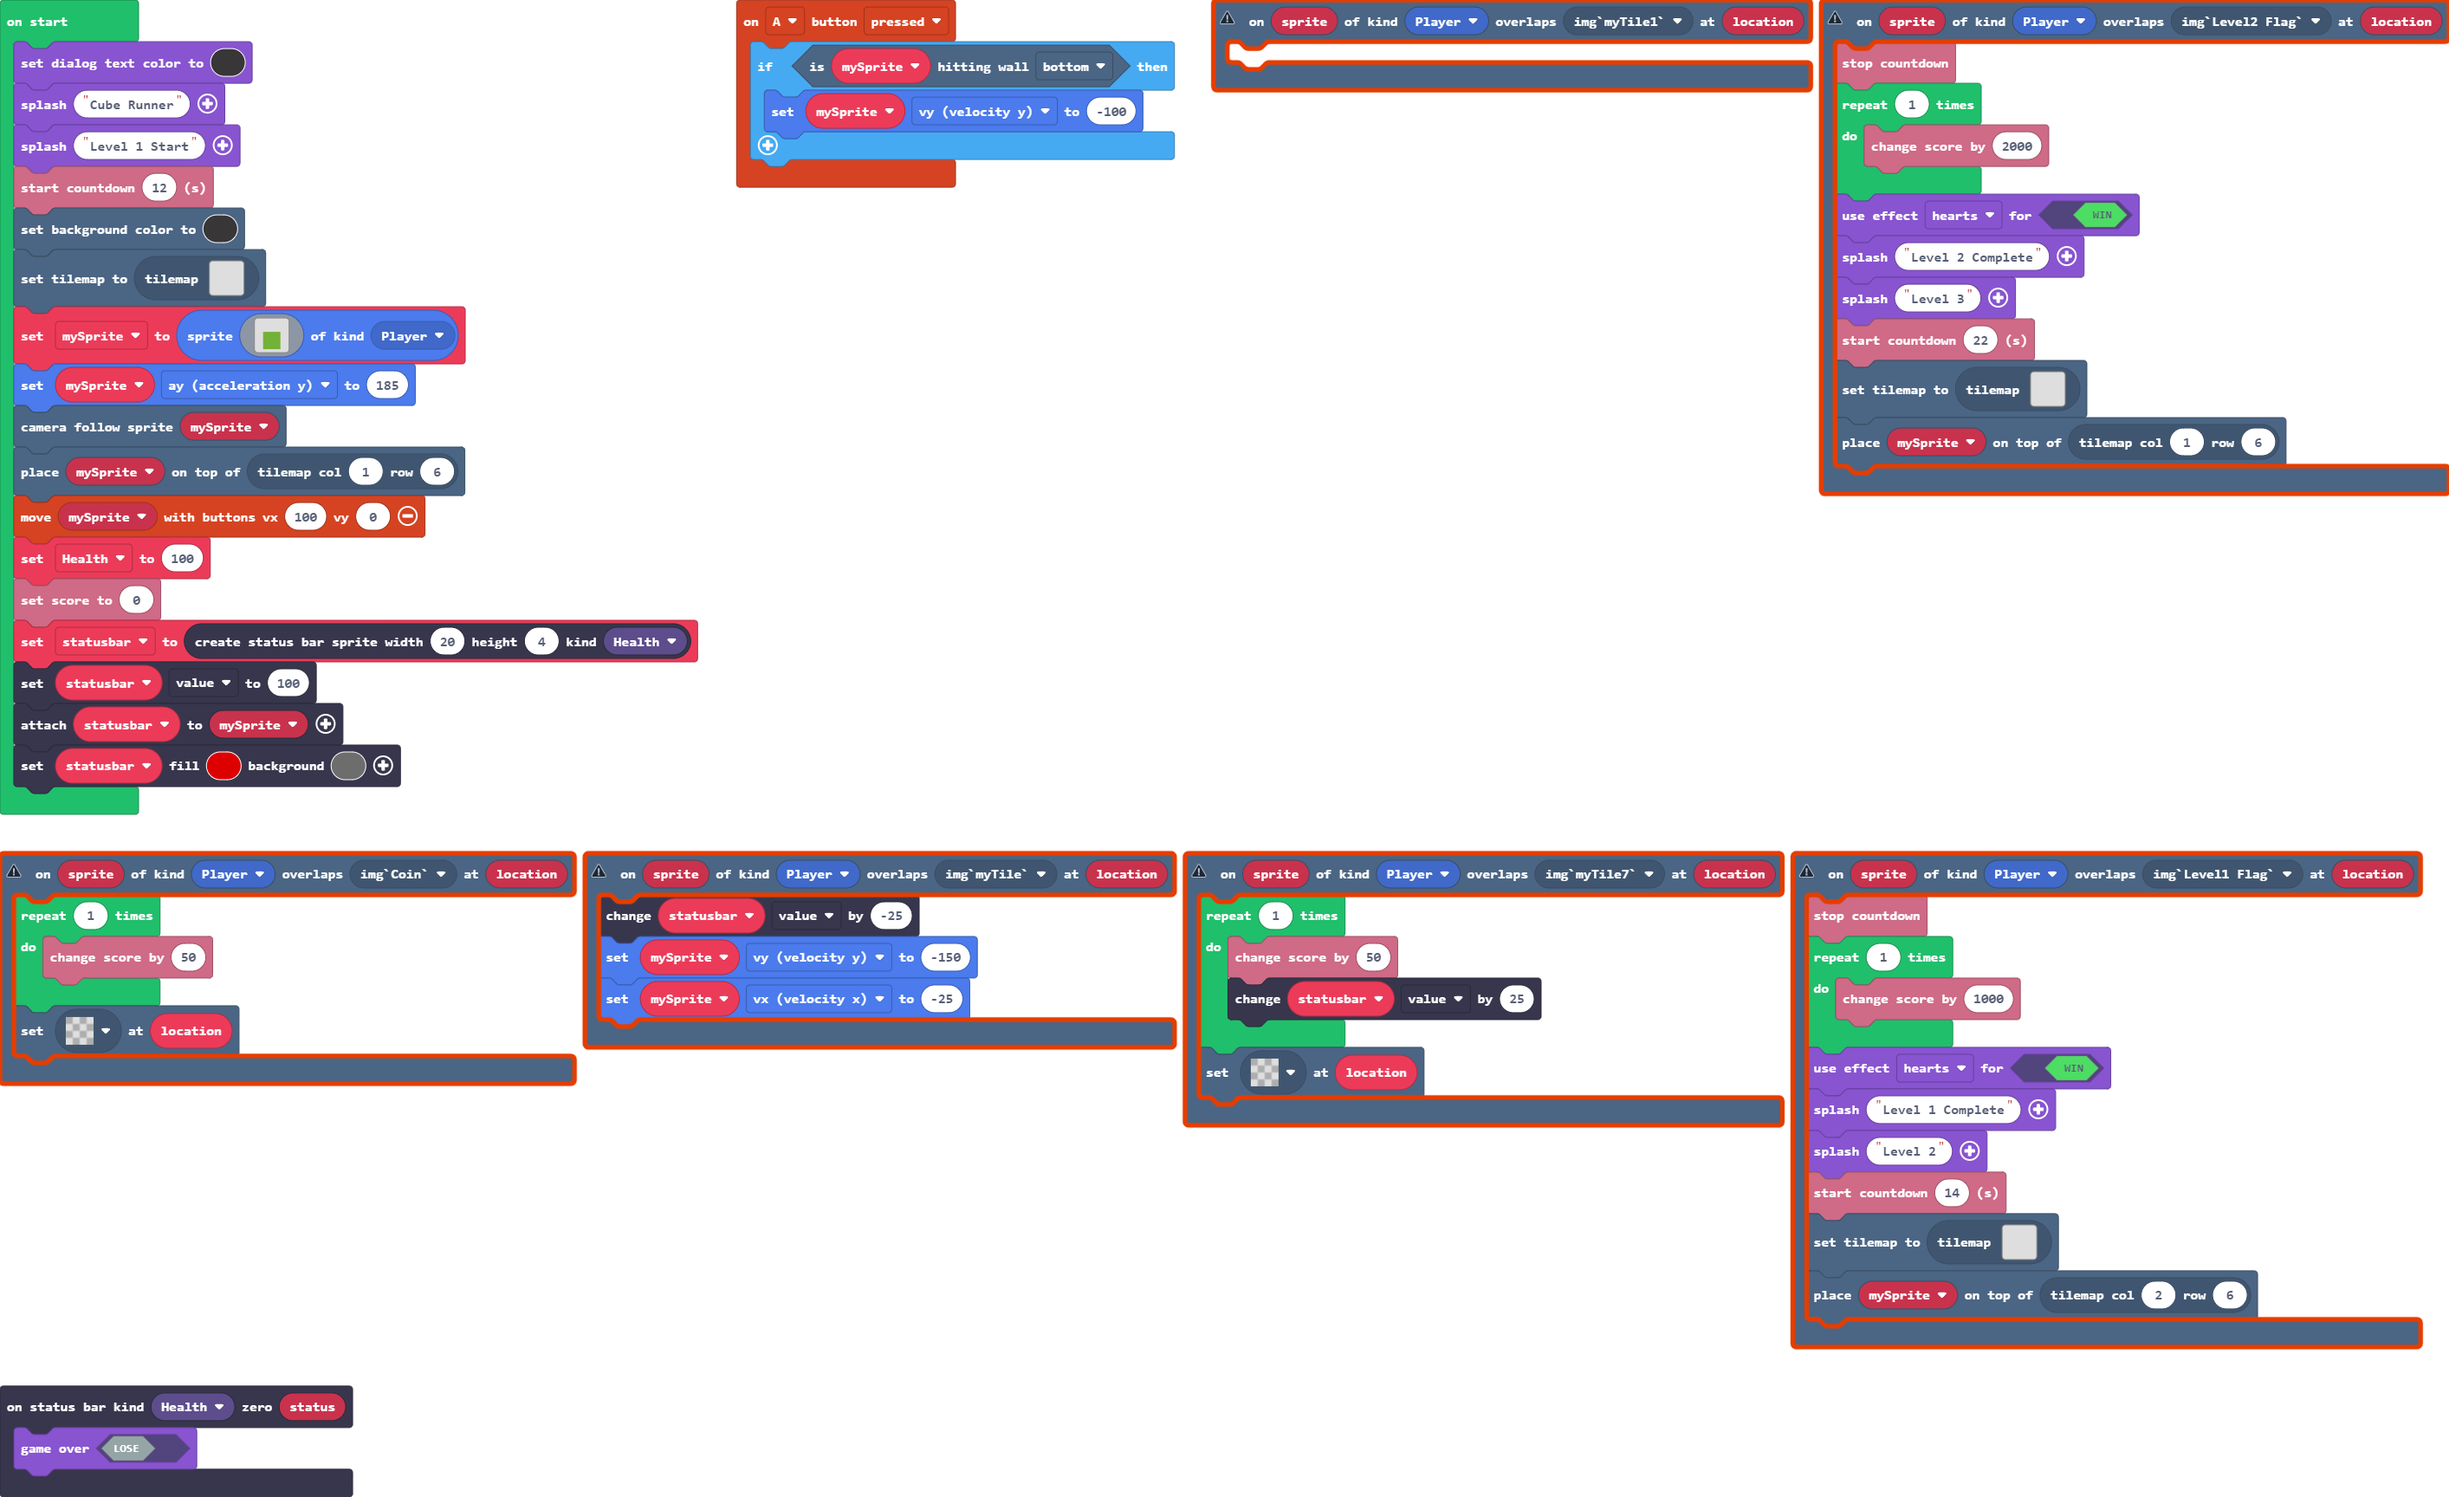
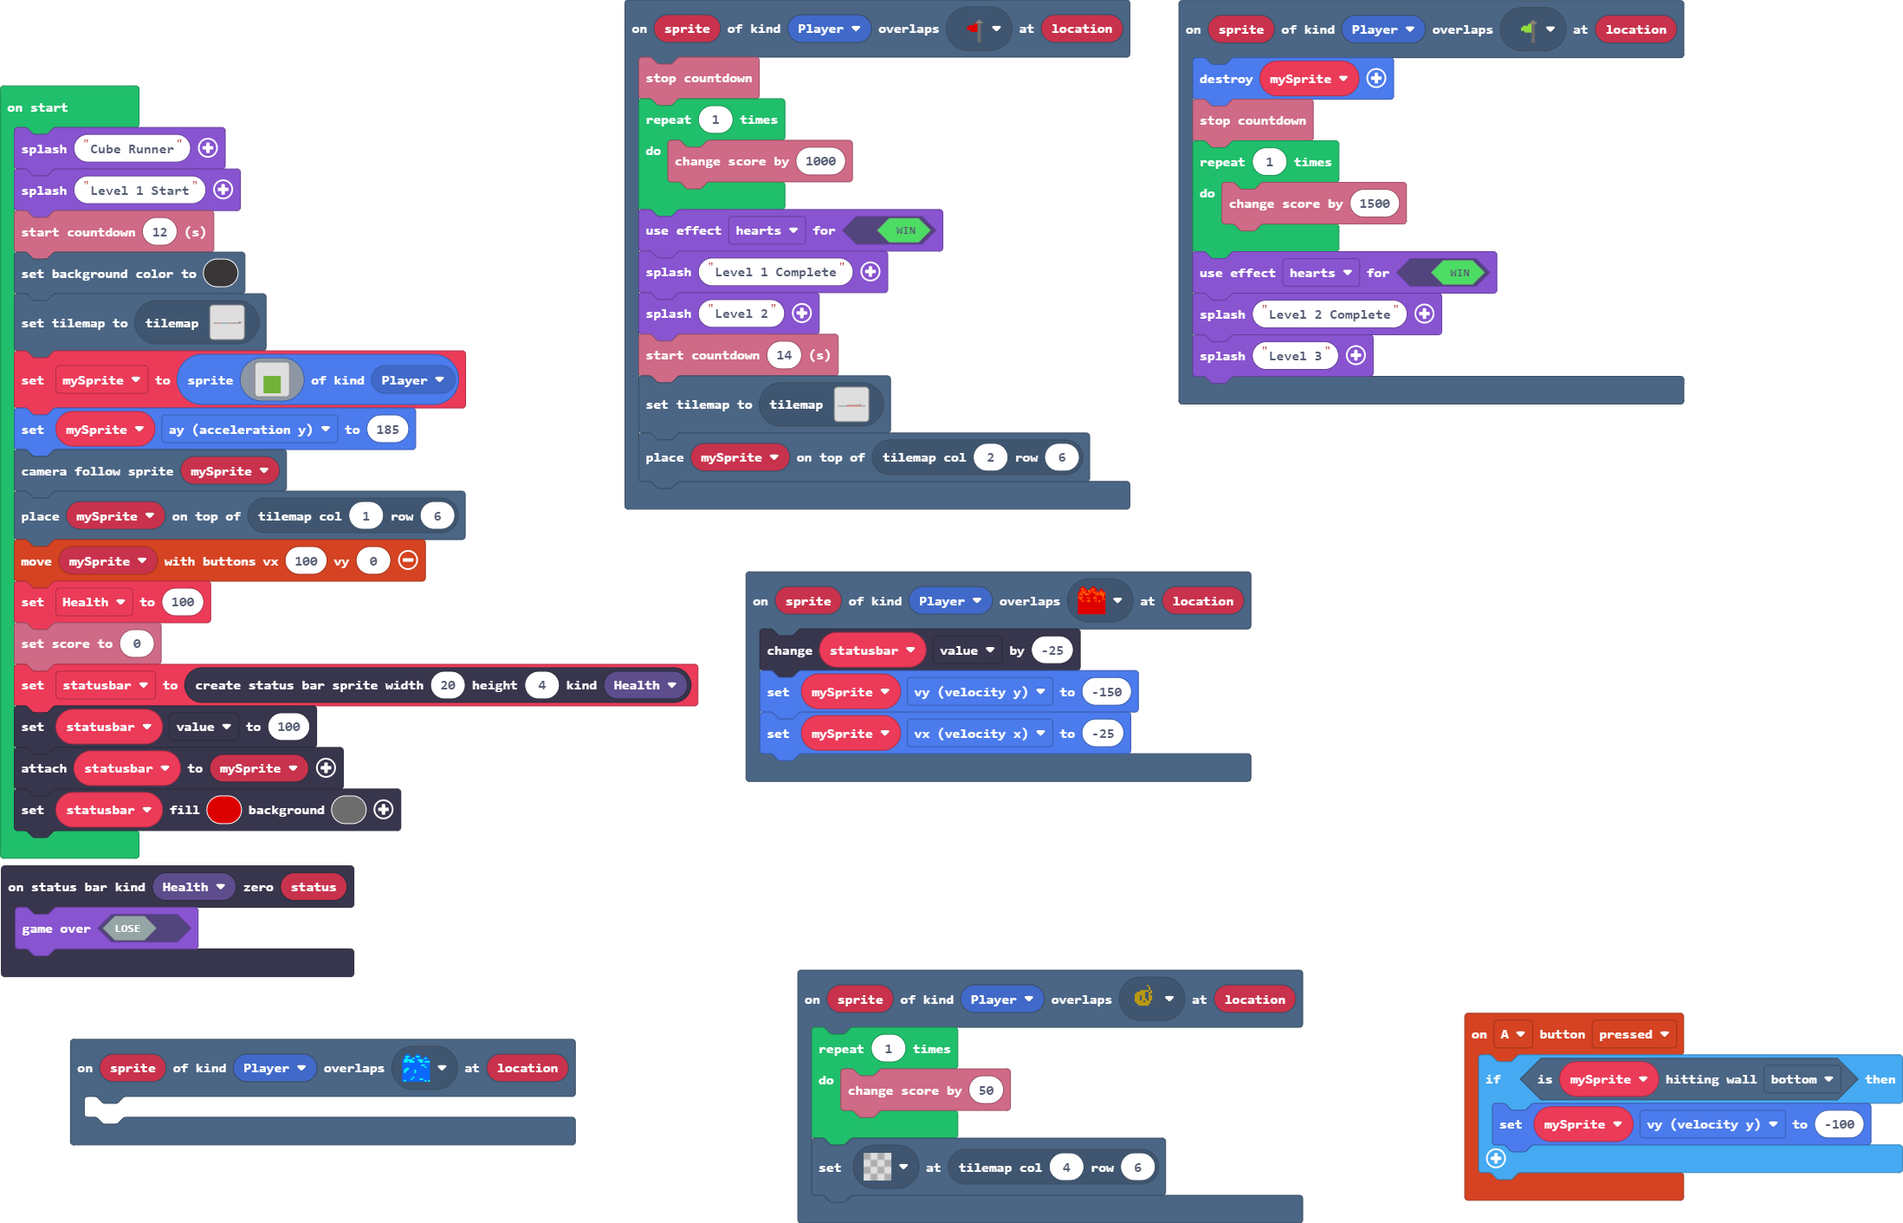
Restore '15/03/2023, 18:51:03 Timers updated for level 1 & 2'

diff --git a/tilemap.g.ts b/tilemap.g.ts
@@ -2,6 +2,24 @@
 namespace myTiles {
     //% fixedInstance jres blockIdentity=images._tile
     export const transparency16 = image.ofBuffer(hex``);
+    //% fixedInstance jres blockIdentity=images._tile
+    export const tile2 = image.ofBuffer(hex``);
+    //% fixedInstance jres blockIdentity=images._tile
+    export const tile4 = image.ofBuffer(hex``);
+    //% fixedInstance jres blockIdentity=images._tile
+    export const tile5 = image.ofBuffer(hex``);
+    //% fixedInstance jres blockIdentity=images._tile
+    export const tile7 = image.ofBuffer(hex``);
+    //% fixedInstance jres blockIdentity=images._tile
+    export const tile1 = image.ofBuffer(hex``);
+    //% fixedInstance jres blockIdentity=images._tile
+    export const tile3 = image.ofBuffer(hex``);
+    //% fixedInstance jres blockIdentity=images._tile
+    export const tile6 = image.ofBuffer(hex``);
+    //% fixedInstance jres blockIdentity=images._tile
+    export const tile8 = image.ofBuffer(hex``);
+    //% fixedInstance jres blockIdentity=images._tile
+    export const tile9 = image.ofBuffer(hex``);
 
     helpers._registerFactory("tilemap", function(name: string) {
         switch(helpers.stringTrim(name)) {
@@ -23,83 +41,18 @@ namespace myTiles {
 . . . . . . . . . . . . . . . . 
 . . . . . . . . . . . . . . . . 
 . . . . . . . . . . . . . . . . 
-`, [], -Infinity);
-            case "level5":
-            case "level5":return tiles.createTilemap(hex`1000100000000000000000000000000000000000000000000000000000000000000000000000000000000000000000000000000000000000000000000000000000000000000000000000000000000000000000000000000000000000000000000000000000000000000000000000000000000000000000000000000000000000000000000000000000000000000000000000000000000000000000000000000000000000000000000000000000000000000000000000000000000000000000000000000000000000000000000000000000000000000000000000000000000000000000000000000000000000000000000000000000000000000000000000000000000000`, img`
-. . . . . . . . . . . . . . . . 
-. . . . . . . . . . . . . . . . 
-. . . . . . . . . . . . . . . . 
-. . . . . . . . . . . . . . . . 
-. . . . . . . . . . . . . . . . 
-. . . . . . . . . . . . . . . . 
-. . . . . . . . . . . . . . . . 
-. . . . . . . . . . . . . . . . 
-. . . . . . . . . . . . . . . . 
-. . . . . . . . . . . . . . . . 
-. . . . . . . . . . . . . . . . 
-. . . . . . . . . . . . . . . . 
-. . . . . . . . . . . . . . . . 
-. . . . . . . . . . . . . . . . 
-. . . . . . . . . . . . . . . . 
-. . . . . . . . . . . . . . . . 
-`, [], -Infinity);
-            case "level6":
-            case "level6":return tiles.createTilemap(hex`1000100000000000000000000000000000000000000000000000000000000000000000000000000000000000000000000000000000000000000000000000000000000000000000000000000000000000000000000000000000000000000000000000000000000000000000000000000000000000000000000000000000000000000000000000000000000000000000000000000000000000000000000000000000000000000000000000000000000000000000000000000000000000000000000000000000000000000000000000000000000000000000000000000000000000000000000000000000000000000000000000000000000000000000000000000000000000`, img`
-. . . . . . . . . . . . . . . . 
-. . . . . . . . . . . . . . . . 
-. . . . . . . . . . . . . . . . 
-. . . . . . . . . . . . . . . . 
-. . . . . . . . . . . . . . . . 
-. . . . . . . . . . . . . . . . 
-. . . . . . . . . . . . . . . . 
-. . . . . . . . . . . . . . . . 
-. . . . . . . . . . . . . . . . 
-. . . . . . . . . . . . . . . . 
-. . . . . . . . . . . . . . . . 
-. . . . . . . . . . . . . . . . 
-. . . . . . . . . . . . . . . . 
-. . . . . . . . . . . . . . . . 
-. . . . . . . . . . . . . . . . 
-. . . . . . . . . . . . . . . . 
-`, [], -Infinity);
+`, [myTiles.transparency16], TileScale.Sixteen);
             case "level1":
-            case "level1":return tiles.createTilemap(hex`1000100000000000000000000000000000000000000000000000000000000000000000000000000000000000000000000000000000000000000000000000000000000000000000000000000000000000000000000000000000000000000000000000000000000000000000000000000000000000000000000000000000000000000000000000000000000000000000000000000000000000000000000000000000000000000000000000000000000000000000000000000000000000000000000000000000000000000000000000000000000000000000000000000000000000000000000000000000000000000000000000000000000000000000000000000000000000`, img`
-. . . . . . . . . . . . . . . . 
-. . . . . . . . . . . . . . . . 
-. . . . . . . . . . . . . . . . 
-. . . . . . . . . . . . . . . . 
-. . . . . . . . . . . . . . . . 
-. . . . . . . . . . . . . . . . 
-. . . . . . . . . . . . . . . . 
-. . . . . . . . . . . . . . . . 
-. . . . . . . . . . . . . . . . 
-. . . . . . . . . . . . . . . . 
-. . . . . . . . . . . . . . . . 
-. . . . . . . . . . . . . . . . 
-. . . . . . . . . . . . . . . . 
-. . . . . . . . . . . . . . . . 
-. . . . . . . . . . . . . . . . 
-. . . . . . . . . . . . . . . . 
-`, [], -Infinity);
-            case "level4":
-            case "level4":return tiles.createTilemap(hex`1000100000000000000000000000000000000000000000000000000000000000000000000000000000000000000000000000000000000000000000000000000000000000000000000000000000000000000000000000000000000000000000000000000000000000000000000000000000000000000000000000000000000000000000000000000000000000000000000000000000000000000000000000000000000000000000000000000000000000000000000000000000000000000000000000000000000000000000000000000000000000000000000000000000000000000000000000000000000000000000000000000000000000000000000000000000000000`, img`
-. . . . . . . . . . . . . . . . 
-. . . . . . . . . . . . . . . . 
-. . . . . . . . . . . . . . . . 
-. . . . . . . . . . . . . . . . 
-. . . . . . . . . . . . . . . . 
-. . . . . . . . . . . . . . . . 
-. . . . . . . . . . . . . . . . 
-. . . . . . . . . . . . . . . . 
-. . . . . . . . . . . . . . . . 
-. . . . . . . . . . . . . . . . 
-. . . . . . . . . . . . . . . . 
-. . . . . . . . . . . . . . . . 
-. . . . . . . . . . . . . . . . 
-. . . . . . . . . . . . . . . . 
-. . . . . . . . . . . . . . . . 
-. . . . . . . . . . . . . . . . 
-`, [], -Infinity);
[1 lines of base64/hex data omitted]
+............................................................
+............................................................
+............................................................
+............................................................
+............................................................
+........................................................2222
+.......................................................22222
+2222222222..22..2222..22..22222222...22222222..2222222222222
+`, [myTiles.transparency16,myTiles.tile2,myTiles.tile1,myTiles.tile4,myTiles.tile5,myTiles.tile3,myTiles.tile7,myTiles.tile8,myTiles.tile6], TileScale.Sixteen);
             case "level3":
             case "level3":return tiles.createTilemap(hex`1000100000000000000000000000000000000000000000000000000000000000000000000000000000000000000000000000000000000000000000000000000000000000000000000000000000000000000000000000000000000000000000000000000000000000000000000000000000000000000000000000000000000000000000000000000000000000000000000000000000000000000000000000000000000000000000000000000000000000000000000000000000000000000000000000000000000000000000000000000000000000000000000000000000000000000000000000000000000000000000000000000000000000000000000000000000000000`, img`
 . . . . . . . . . . . . . . . . 
@@ -118,7 +71,56 @@ namespace myTiles {
 . . . . . . . . . . . . . . . . 
 . . . . . . . . . . . . . . . . 
 . . . . . . . . . . . . . . . . 
-`, [], -Infinity);
+`, [myTiles.transparency16], TileScale.Sixteen);
+            case "level5":
+            case "level5":return tiles.createTilemap(hex`1000100000000000000000000000000000000000000000000000000000000000000000000000000000000000000000000000000000000000000000000000000000000000000000000000000000000000000000000000000000000000000000000000000000000000000000000000000000000000000000000000000000000000000000000000000000000000000000000000000000000000000000000000000000000000000000000000000000000000000000000000000000000000000000000000000000000000000000000000000000000000000000000000000000000000000000000000000000000000000000000000000000000000000000000000000000000000`, img`
+. . . . . . . . . . . . . . . . 
+. . . . . . . . . . . . . . . . 
+. . . . . . . . . . . . . . . . 
+. . . . . . . . . . . . . . . . 
+. . . . . . . . . . . . . . . . 
+. . . . . . . . . . . . . . . . 
+. . . . . . . . . . . . . . . . 
+. . . . . . . . . . . . . . . . 
+. . . . . . . . . . . . . . . . 
+. . . . . . . . . . . . . . . . 
+. . . . . . . . . . . . . . . . 
+. . . . . . . . . . . . . . . . 
+. . . . . . . . . . . . . . . . 
+. . . . . . . . . . . . . . . . 
+. . . . . . . . . . . . . . . . 
+. . . . . . . . . . . . . . . . 
+`, [myTiles.transparency16], TileScale.Sixteen);
+            case "level6":
+            case "level6":return tiles.createTilemap(hex`1000100000000000000000000000000000000000000000000000000000000000000000000000000000000000000000000000000000000000000000000000000000000000000000000000000000000000000000000000000000000000000000000000000000000000000000000000000000000000000000000000000000000000000000000000000000000000000000000000000000000000000000000000000000000000000000000000000000000000000000000000000000000000000000000000000000000000000000000000000000000000000000000000000000000000000000000000000000000000000000000000000000000000000000000000000000000000`, img`
+. . . . . . . . . . . . . . . . 
+. . . . . . . . . . . . . . . . 
+. . . . . . . . . . . . . . . . 
+. . . . . . . . . . . . . . . . 
+. . . . . . . . . . . . . . . . 
+. . . . . . . . . . . . . . . . 
+. . . . . . . . . . . . . . . . 
+. . . . . . . . . . . . . . . . 
+. . . . . . . . . . . . . . . . 
+. . . . . . . . . . . . . . . . 
+. . . . . . . . . . . . . . . . 
+. . . . . . . . . . . . . . . . 
+. . . . . . . . . . . . . . . . 
+. . . . . . . . . . . . . . . . 
+. . . . . . . . . . . . . . . . 
+. . . . . . . . . . . . . . . . 
+`, [myTiles.transparency16], TileScale.Sixteen);
+            case "level0":
+            case "level4":return tiles.createTilemap(hex`400008000000000000000000000000000000000000000000000000000000000000000000000000000000000000000000000000000000000000000000000000000000000000000000000000000000000000000000000000000000000000000000000000000000000000000000000000000000000000000000000000000000000000000000000000000000000000000000000000000000000000000000000000000000000000000000000000000000000000000000000000000000000000000000000000000000000000000000000000000000000000000000000000000000000000000000000000000000000000000000000000000000000000000000000000000000000000000000000000000000000000000000000000000000000000000000000000000000000000000000000000000000000000000101010100000000000000000000000000000000000000000000000000000000000000000000030100000102010000000301010101000000030101010000010301000000000000000000000000000000000000000000000000000000000000000000000101000000000000000000000000000000000000000000000000000000000000000000000000000000060001010103010101010101010201010101050505010404040404040404040404040404040404040404040404040404040404040404010102010101010101010101`, img`
+................................................................
+................................................................
+................................................................
+................................................................
+..................................................2222..........
+........................22..222...22222...2222..222.............
+.....................22.........................................
+2222222222222222...2................................222222222222
+`, [myTiles.transparency16,myTiles.tile2,myTiles.tile5,myTiles.tile7,myTiles.tile1,myTiles.tile3,myTiles.tile9], TileScale.Sixteen);
         }
         return null;
     })
@@ -126,6 +128,24 @@ namespace myTiles {
     helpers._registerFactory("tile", function(name: string) {
         switch(helpers.stringTrim(name)) {
             case "transparency16":return transparency16;
+            case "myTile0":
+            case "tile2":return tile2;
+            case "myTile2":
+            case "tile4":return tile4;
+            case "myTile3":
+            case "tile5":return tile5;
+            case "myTile5":
+            case "tile7":return tile7;
+            case "myTile":
+            case "tile1":return tile1;
+            case "myTile1":
+            case "tile3":return tile3;
+            case "myTile4":
+            case "tile6":return tile6;
+            case "Level1 Flag":
+            case "tile8":return tile8;
+            case "Level2 Flag":
+            case "tile9":return tile9;
         }
         return null;
     })

diff --git a/main.ts b/main.ts
@@ -1,7 +1,36 @@
 namespace SpriteKind {
     export const Coin = SpriteKind.create()
 }
-scene.onOverlapTile(SpriteKind.Player, img`Level1 Flag`, function (sprite, location) {
+scene.onOverlapTile(SpriteKind.Player, assets.tile`myTile1`, function (sprite, location) {
+	
+})
+scene.onOverlapTile(SpriteKind.Player, assets.tile`Level2 Flag`, function (sprite, location) {
+    sprites.destroy(mySprite)
+    info.stopCountdown()
+    for (let index = 0; index < 1; index++) {
+        info.changeScoreBy(1500)
+    }
+    game.setGameOverEffect(true, effects.hearts)
+    game.splash("Level 2 Complete")
+    game.splash("Level 3")
+})
+scene.onOverlapTile(SpriteKind.Player, assets.tile`myTile`, function (sprite, location) {
+    statusbar.value += -25
+    mySprite.vy = -150
+    mySprite.vx = -25
+})
+controller.A.onEvent(ControllerButtonEvent.Pressed, function () {
+    if (mySprite.isHittingTile(CollisionDirection.Bottom)) {
+        mySprite.vy = -100
+    }
+})
+scene.onOverlapTile(SpriteKind.Player, assets.tile`myTile4`, function (sprite, location) {
+    for (let index = 0; index < 1; index++) {
+        info.changeScoreBy(50)
+    }
+    tiles.setTileAt(tiles.getTileLocation(4, 6), assets.tile`transparency16`)
+})
+scene.onOverlapTile(SpriteKind.Player, assets.tile`Level1 Flag`, function (sprite, location) {
     info.stopCountdown()
     for (let index = 0; index < 1; index++) {
         info.changeScoreBy(1000)
@@ -10,53 +39,14 @@ scene.onOverlapTile(SpriteKind.Player, img`Level1 Flag`, function (sprite, locat
     game.splash("Level 1 Complete")
     game.splash("Level 2")
     info.startCountdown(14)
-    tiles.setCurrentTilemap(tilemap`level4`)
+    tiles.setCurrentTilemap(tilemap`level0`)
     tiles.placeOnTile(mySprite, tiles.getTileLocation(2, 6))
-})
-scene.onOverlapTile(SpriteKind.Player, img`myTile1`, function (sprite, location) {
-	
-})
-controller.A.onEvent(ControllerButtonEvent.Pressed, function () {
-    if (mySprite.isHittingTile(CollisionDirection.Bottom)) {
-        mySprite.vy = -100
-    }
-})
-scene.onOverlapTile(SpriteKind.Player, img`Level2 Flag`, function (sprite, location) {
-    info.stopCountdown()
-    for (let index = 0; index < 1; index++) {
-        info.changeScoreBy(2000)
-    }
-    game.setGameOverEffect(true, effects.hearts)
-    game.splash("Level 2 Complete")
-    game.splash("Level 3")
-    info.startCountdown(22)
-    tiles.setCurrentTilemap(tilemap`level3`)
-    tiles.placeOnTile(mySprite, tiles.getTileLocation(1, 6))
-})
-scene.onOverlapTile(SpriteKind.Player, img`myTile`, function (sprite, location) {
-    statusbar.value += -25
-    mySprite.vy = -150
-    mySprite.vx = -25
 })
 statusbars.onZero(StatusBarKind.Health, function (status) {
     game.gameOver(false)
 })
-scene.onOverlapTile(SpriteKind.Player, img`Coin`, function (sprite, location) {
-    for (let index = 0; index < 1; index++) {
-        info.changeScoreBy(50)
-    }
-    tiles.setTileAt(location, assets.tile`transparency16`)
-})
-scene.onOverlapTile(SpriteKind.Player, img`myTile7`, function (sprite, location) {
-    for (let index = 0; index < 1; index++) {
-        info.changeScoreBy(50)
-        statusbar.value += 25
-    }
-    tiles.setTileAt(location, assets.tile`transparency16`)
-})
 let statusbar: StatusBarSprite = null
 let mySprite: Sprite = null
-game.setDialogTextColor(10)
 game.splash("Cube Runner")
 game.splash("Level 1 Start")
 info.startCountdown(12)
